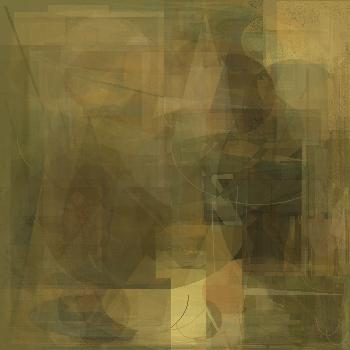
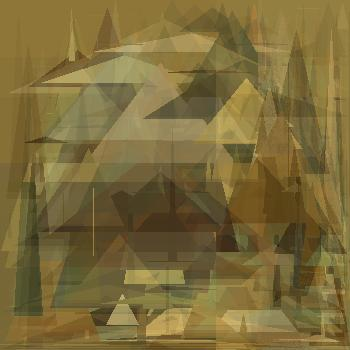
Small changes

diff --git a/src/test.py b/src/test.py
@@ -1,0 +1,225 @@
+"""
+Script for recreating image using genetic alghoritm.
+"""
+
+import string
+import random
+from skimage.metrics import peak_signal_noise_ratio as psns # For image similarity evaluation
+from PIL import Image, ImageDraw, ImageFont
+import cv2
+import numpy as np
+import imageio # For gif saving
+import evaluationfunctions as ef
+
+#Load and show original image for tracking (convert to black and white)
+original_image = Image.open("images/download.jpeg").convert("L")
+original_height, original_width  = original_image.size
+cv2.imshow("Original", np.array(original_image))
+cv2.imwrite("original.jpg",np.array(original_image))
+
+#Adjust hyperparameters
+NUMBER_OF_GENERATIONS = 7500
+POPULATION_NUMBER = 50  # How many images in 1 generation (without elitism)
+MUTATION_CHANCE = 0.1  # Chance of mutating (adding random shapes)
+MUTATION_STRENGTH = 1  # How many shapes to add in mutation
+ELITISM = True  # Turn on/off elitism (transfering best images to next generation without crossover)
+ELITISM_NUMBER = 4  # How many best images transfer to next generation (elitism)
+STARTING_SHAPE_NUMBER = 6  # How many shapes to draw on each image in first generation
+
+PRINT_EVERY_GEN = 25  # Print fitness value every x generations
+SAVE_FRAME_FOR_GIF_EVERY = 100  # Save best image every x generations for gif creation
+
+# What to draw functions
+
+def draw_rectangle(image, size=10):
+    """Draw rectangle on image with given size."""
+    x = random.randint(0,original_width-1)
+    y = random.randint(0,original_height-1)
+
+    color = (random.randint(0,255))
+
+    image.rectangle([(y,x), (y+size,x+size)], fill=color)
+
+
+def draw_line(image):
+    """Draw random line on image."""
+    x1 = random.randint(0,original_width-1)
+    y1 = random.randint(0,original_height-1)
+
+    x2 = random.randint(0,original_width-1)
+    y2 = random.randint(0,original_height-1)
+
+    thickness_value = random.randint(1, 4)
+    color = (random.randint(0,255))
+
+    image.line([(y1,x1), (y2,x2)], fill=color, width=thickness_value)
+
+
+def draw_text(image, size=20):
+    """Draw random text on image with given size."""
+    font = ImageFont.truetype("/System/Library/Fonts/Supplemental/Arial.ttf", size)
+    text_length = random.randint(1,3)
+    text = "".join(random.choice(string.ascii_letters) for i in range(text_length))
+
+    x = random.randint(0,original_width-1)
+    y = random.randint(0,original_height-1)
+
+    color = (random.randint(0,255))
+    image.text((y,x), text, fill=color, font=font)
+
+
+def add_random_shape_to_image(image, number_of_shapes):
+    """Add shape with random proporties to image number_of_shapes times."""
+    image_filled = image.copy()
+    for _ in range(0, number_of_shapes):
+        draw = ImageDraw.Draw(image_filled)
+        draw_text(draw)
+    return image_filled
+
+
+def create_random_population(size):
+    """Create first generation with random population."""
+    first_population = []
+    for _ in range(0, size):
+        blank_image = Image.new("L", (original_height, original_width))
+        filled_image = add_random_shape_to_image(blank_image, MUTATION_STRENGTH)
+        first_population.append(filled_image)
+    return first_population
+
+
+def evaluate_fitness(image):
+    """Evaluate similarity of image with original."""
+    # return psns(np.array(image), np.array(original_image))
+    return ef.mse_raw(np.array(image), np.array(original_image))
+
+# Crossover operations with alternatives and helpers
+
+def images_to_arrays(image1, image2):
+    """Represent images as arrays."""
+    img1_arr = np.array(image1)
+    img2_arr = np.array(image2)
+    return img1_arr ,img2_arr
+
+
+def blending(image1, image2):
+    """Blend to images together with 0.5 alpha."""
+    return Image.blend(image1, image2, alpha=0.5)
+
+
+def random_horizontal_swap(image1, image2):
+    """Swap random rows of two images."""
+    img1_arr, img2_arr = images_to_arrays(image1, image2)
+    horizontal_random_choice = np.random.choice(original_width,
+                                                int(original_width/2),
+                                                replace=False)
+    img1_arr[horizontal_random_choice] = img2_arr[horizontal_random_choice]
+    return Image.fromarray(img1_arr)
+
+
+def random_vertical_swap(image1, image2):
+    """Swap random columns of two images."""
+    img1_arr, img2_arr = images_to_arrays(image1, image2)
+    vertical_random_choice = np.random.choice(original_height,
+                                              int(original_height/2),
+                                              replace=False)
+    img1_arr[:,vertical_random_choice] = img2_arr[:,vertical_random_choice]
+    return Image.fromarray(img1_arr)
+
+
+def half_vertical_swap(image1, image2):
+    """Swap images halfs (verticaly)."""
+    img1_arr, img2_arr = images_to_arrays(image1, image2)
+    img1_half = img1_arr[0:int(original_height/2),]
+    img2_half = img2_arr[int(original_height/2):original_height,]
+    return np.vstack((img1_half, img2_half))
+
+
+def half_horizontal_swap(image1, image2):
+    """Swap images halfs (horizontaly)."""
+    img1_arr, img2_arr = images_to_arrays(image1, image2)
+    img1_half = img1_arr[:,0:int(original_width/2)]
+    img2_half = img2_arr[:,int(original_width/2):original_width]
+    return np.hstack((img1_half, img2_half))
+
+
+def crossover(image1, image2):
+    """Make crossover operation on two images."""
+    return random_horizontal_swap(image1, image2)
+
+
+def mutate(image, number_of_times):
+    """Mutate image adding random shape number_of_times."""
+    mutated = add_random_shape_to_image(image, number_of_times)
+    return mutated
+
+
+def get_parents(local_population, local_fitnesses):
+    """Connect parents in pairs based on fitnesses as weights using softmax."""
+    fitness_sum = sum(np.exp(local_fitnesses))
+    fitness_normalized = np.exp(local_fitnesses) / fitness_sum
+    local_parents_list = []
+    for _ in range(0, len(local_population)):
+        parents = random.choices(local_population, weights=fitness_normalized, k=2)
+        local_parents_list.append(parents)
+    return local_parents_list
+
+def whole_pipeline():
+    """Go through whole pipeline and execute it."""
+    save_gif = [] #Creating empty frames list for gif saving at the end
+
+    # Create first generation
+    population = create_random_population(POPULATION_NUMBER)
+
+    # Loop through generations
+    for generation in range(0, NUMBER_OF_GENERATIONS):
+
+        # Calculate similarity of each image in population to original image
+        fitnesses = []
+        for img in population:
+            actual_fitness = evaluate_fitness(img)
+            fitnesses.append(actual_fitness)
+
+        # Get ids of best images in population
+        top_population_ids = np.argsort(fitnesses)[-ELITISM_NUMBER:]
+
+        # Start creating new population for next generation
+        new_population = []
+
+        # Connect parent into pairs
+        parents_list = get_parents(population, fitnesses)
+
+        # Create childs
+        for i in range(0, POPULATION_NUMBER):
+            new_img = crossover(parents_list[i][0], parents_list[i][1])
+            #Mutate
+            if random.uniform(0.0, 1.0) < MUTATION_CHANCE:
+                new_img = mutate(new_img, MUTATION_STRENGTH)
+            new_population.append(new_img)
+
+        # Elitism transfer
+        if ELITISM:
+            for ids in top_population_ids:
+                new_population.append(population[ids])
+
+        # Print info every x generations
+        if generation % PRINT_EVERY_GEN == 0:
+            print(generation)
+            print(fitnesses[top_population_ids[0]])
+
+        # Get best actual image and show it
+        open_cv_image = np.array(population[top_population_ids[0]])
+        cv2.imshow("test", open_cv_image)
+
+        # Gif creation
+        if generation % SAVE_FRAME_FOR_GIF_EVERY == 0:
+            save_gif.append(open_cv_image)
+
+        cv2.waitKey(1)
+        population = new_population
+
+    # Save gif and best output
+    imageio.mimsave("output_gif.gif", save_gif)
+    cv2.imwrite("output_best.jpg", open_cv_image)
+
+if __name__ == "__main__":
+    whole_pipeline()

diff --git a/src/genetic_algorithm_for_image_reconstruction.py b/src/genetic_algorithm_for_image_reconstruction.py
@@ -32,7 +32,7 @@ def genetic_algorithm_image_reconstruction(target_image, initial_population, gen
         fitness_scores = []
 
         for individual in current_population:
-            fitness = combine_metrics({'psnr': False, 'ssim': False, 'delta_e': False, 'mse': True}, individual,
+            fitness = combine_metrics({'psnr': False, 'ssim': False, 'delta_e': True, 'mse': False}, individual,
                                       target_image)
             fitness_scores.append(fitness)
             if fitness > best_fitness:
